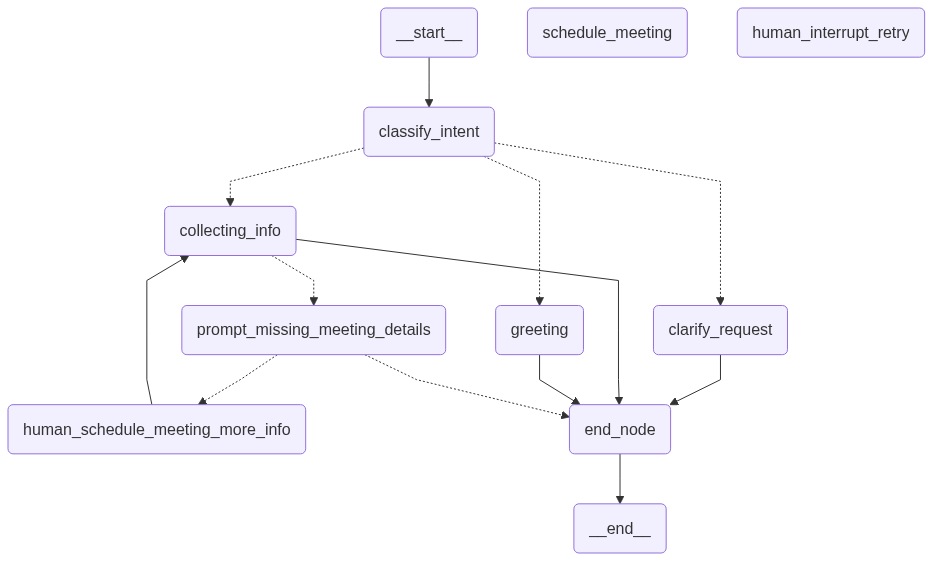
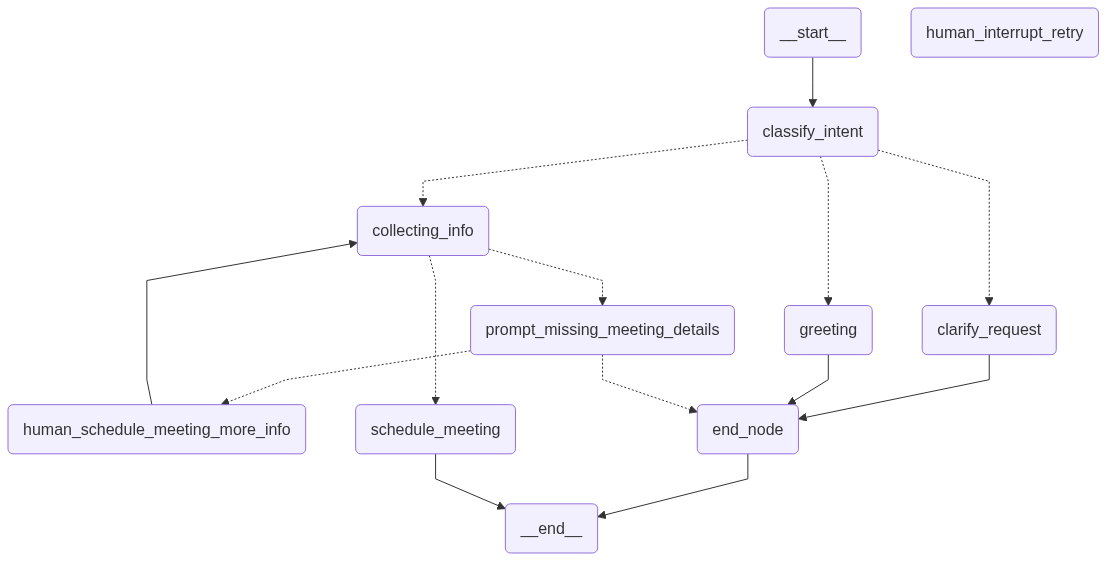
fix: end to end_node

diff --git a/src/meetingmuse/nodes/schedule_meeting_node.py b/src/meetingmuse/nodes/schedule_meeting_node.py
@@ -2,7 +2,6 @@ import random
 from typing import Any
 
 from langchain_core.messages import AIMessage
-from langgraph.graph import END
 from langgraph.types import Command
 
 from meetingmuse.llm_models.hugging_face import HuggingFaceModel
@@ -32,9 +31,12 @@ class ScheduleMeetingNode(BaseNode):
 
         # Check if user intent is schedule
         if state.user_intent != UserIntent.SCHEDULE_MEETING:
-            message: str = "No scheduling action needed for this intent."
+            self.logger.error(
+                f"No scheduling action needed for this intent: {state.user_intent}, wrong workflow"
+            )
+            message = "No scheduling action needed for this intent."
             state.messages.append(AIMessage(content=message))
-            return Command(goto=END)
+            return Command(goto=NodeName.END)
 
         # Simulate API call to schedule meeting
         # TODO: Replace with actual API call logic
@@ -43,8 +45,8 @@ class ScheduleMeetingNode(BaseNode):
             success_probability: float = random.random()
             if success_probability < 0.3:
                 # Success case
-                meeting_id: str = f"MTG_{random.randint(1000, 9999)}"
-                success_message: str = (
+                meeting_id = f"MTG_{random.randint(1000, 9999)}"
+                success_message = (
                     f"✅ Meeting scheduled successfully! "
                     f"Meeting ID: {meeting_id}. "
                     f"Title: {state.meeting_details.title or 'Meeting'}, "
@@ -54,13 +56,13 @@ class ScheduleMeetingNode(BaseNode):
                     f"Meeting scheduled successfully with ID: {meeting_id}"
                 )
                 state.messages.append(AIMessage(content=success_message))
-                return Command(goto=END)
+                return Command(goto=NodeName.END)
             # Failure case
             raise Exception("Meeting scheduling failed")
 
         except Exception as e:  # pylint: disable=broad-exception-caught
             # Exception handling
-            exception_error_msg: str = f"Unexpected error during scheduling: {str(e)}"
+            exception_error_msg = f"Unexpected error during scheduling: {str(e)}"
             self.logger.error(f"Exception in scheduling: {exception_error_msg}")
             state.messages.append(AIMessage(content=f"❌ {exception_error_msg}"))
             return Command(goto=NodeName.HUMAN_INTERRUPT_RETRY)

diff --git a/src/meetingmuse/nodes/collecting_info_node.py b/src/meetingmuse/nodes/collecting_info_node.py
@@ -8,7 +8,7 @@ from langchain_core.runnables import Runnable
 from meetingmuse.llm_models.hugging_face import HuggingFaceModel
 from meetingmuse.models.meeting import MeetingFindings
 from meetingmuse.models.node import NodeName
-from meetingmuse.models.state import MeetingMuseBotState, OperationName
+from meetingmuse.models.state import MeetingMuseBotState
 from meetingmuse.nodes.base_node import BaseNode
 from meetingmuse.prompts.schedule_meeting_collecting_info_prompt import (
     SCHEDULE_MEETING_COLLECTING_INFO_PROMPT,
@@ -48,8 +48,10 @@ class CollectingInfoNode(BaseNode):
         if state.meeting_details and self.meeting_service.is_meeting_details_complete(
             state.meeting_details
         ):
-            self.logger.info("Meeting details are complete, returning to END")
-            return NodeName.END
+            self.logger.info(
+                "Meeting details are complete, returning to Schedule Meeting Node"
+            )
+            return NodeName.SCHEDULE_MEETING
         self.logger.info(
             "Meeting details are not complete, returning to HUMAN_SCHEDULE_MEETING_MORE_INFO"
         )
@@ -87,8 +89,6 @@ class CollectingInfoNode(BaseNode):
         return prompt
 
     def node_action(self, state: MeetingMuseBotState) -> MeetingMuseBotState:
-        state.operation_status.operation_name = OperationName.SCHEDULE_MEETING
-
         self.logger.info(
             f"Entering {self.node_name} node with current state: {state.meeting_details}"
         )
@@ -131,9 +131,10 @@ class CollectingInfoNode(BaseNode):
             new_meeting_details = meeting_details
 
         # Update only non None fields
-        state = self.meeting_service.update_state_meeting_details(
+        updated_meeting_details = self.meeting_service.update_state_meeting_details(
             new_meeting_details, state
         )
+        state.meeting_details = updated_meeting_details
 
         self.logger.info(f"Updated meeting details: {state.meeting_details}")
 

diff --git a/tests/meetingmuse/nodes/test_missing_meeting_details_node.py b/tests/meetingmuse/nodes/test_missing_meeting_details_node.py
@@ -5,7 +5,7 @@ import pytest
 from meetingmuse.llm_models.hugging_face import HuggingFaceModel
 from meetingmuse.models.meeting import MeetingFindings
 from meetingmuse.models.node import NodeName
-from meetingmuse.models.state import MeetingMuseBotState, OperationName, OperationStatus
+from meetingmuse.models.state import MeetingMuseBotState, OperationStatus
 from meetingmuse.nodes.prompt_missing_meeting_details_node import (
     PromptMissingMeetingDetailsNode,
 )
@@ -44,7 +44,6 @@ class TestPromptMissingMeetingDetailsNode:
                 duration="30 minutes",
             ),
             operation_status=OperationStatus(
-                operation_name=OperationName.SCHEDULE_MEETING,
                 status=False,
                 error_message=None,
                 ai_prompt_input=None,
@@ -63,7 +62,6 @@ class TestPromptMissingMeetingDetailsNode:
                 duration=None,
             ),
             operation_status=OperationStatus(
-                operation_name=OperationName.SCHEDULE_MEETING,
                 status=False,
                 error_message=None,
                 ai_prompt_input=None,

diff --git a/src/meetingmuse/services/meeting_details_service.py b/src/meetingmuse/services/meeting_details_service.py
@@ -73,12 +73,20 @@ class MeetingDetailsService:
 
     def update_state_meeting_details(
         self, meeting_details: MeetingFindings, state: MeetingMuseBotState
-    ) -> MeetingMuseBotState:
-        """Update the state with the new meeting details"""
+    ) -> MeetingFindings:
+        """Update the meeting details with new information"""
+        # Create a new MeetingFindings object with updated values
+        current = state.meeting_details
+        updated_data = {}
+
         for key, value in meeting_details.model_dump().items():
             if value is not None:
-                setattr(state.meeting_details, key, value)
-        return state
+                updated_data[key] = value
+            else:
+                # Keep existing value if new value is None
+                updated_data[key] = getattr(current, key)
+
+        return MeetingFindings(**updated_data)
 
     def generate_completion_message(self, meeting_details: MeetingFindings) -> str:
         """Generate a completion message when all meeting details are collected"""

diff --git a/src/meetingmuse/graph.py b/src/meetingmuse/graph.py
@@ -112,7 +112,7 @@ class GraphBuilder:  # pylint: disable=too-many-instance-attributes
             self.collecting_info_node.get_next_node_name,
             {
                 # TODO: should go to schedule meeting node
-                NodeName.END: NodeName.END,
+                NodeName.SCHEDULE_MEETING: NodeName.SCHEDULE_MEETING,
                 NodeName.PROMPT_MISSING_MEETING_DETAILS: NodeName.PROMPT_MISSING_MEETING_DETAILS,
             },
         )
@@ -132,9 +132,6 @@ class GraphBuilder:  # pylint: disable=too-many-instance-attributes
         graph_builder.add_edge(self.greeting_node.node_name, self.end_node.node_name)
         graph_builder.add_edge(
             self.clarify_request_node.node_name, self.end_node.node_name
-        )
-        graph_builder.add_edge(
-            self.collecting_info_node.node_name, self.end_node.node_name
         )
         graph_builder.add_edge(self.end_node.node_name, END)
 

diff --git a/tests/meetingmuse/nodes/test_human_schedule_meeting_more_info_node.py b/tests/meetingmuse/nodes/test_human_schedule_meeting_more_info_node.py
@@ -5,7 +5,7 @@ from langchain_core.messages import HumanMessage
 
 from meetingmuse.models.meeting import MeetingFindings
 from meetingmuse.models.node import NodeName
-from meetingmuse.models.state import MeetingMuseBotState, OperationName, OperationStatus
+from meetingmuse.models.state import MeetingMuseBotState, OperationStatus
 from meetingmuse.nodes.human_schedule_meeting_more_info_node import (
     HumanScheduleMeetingMoreInfoNode,
 )
@@ -37,7 +37,6 @@ class TestHumanScheduleMeetingMoreInfoNode:
                 duration=None,
             ),
             operation_status=OperationStatus(
-                operation_name=OperationName.SCHEDULE_MEETING,
                 status=False,
                 error_message=None,
                 ai_prompt_input="Please provide the missing meeting details.",

diff --git a/src/meetingmuse/models/state.py b/src/meetingmuse/models/state.py
@@ -10,9 +10,9 @@ from meetingmuse.models.meeting import MeetingFindings
 
 
 class UserIntent(StrEnum):
-    GENERAL_CHAT = "general_chat"
-    SCHEDULE_MEETING = "schedule_meeting"
-    CANCEL_MEETING = "cancel_meeting"
+    GENERAL_CHAT = "general"
+    SCHEDULE_MEETING = "schedule"
+    CANCEL_MEETING = "cancel"
     CHECK_AVAILABILITY = "check_availability"
     UNKNOWN = "unknown"
 
@@ -22,7 +22,6 @@ class OperationName(StrEnum):
 
 
 class OperationStatus(BaseModel):
-    operation_name: OperationName = OperationName.SCHEDULE_MEETING
     status: bool = False
     error_message: Optional[str] = None
     ai_prompt_input: Optional[str] = None
